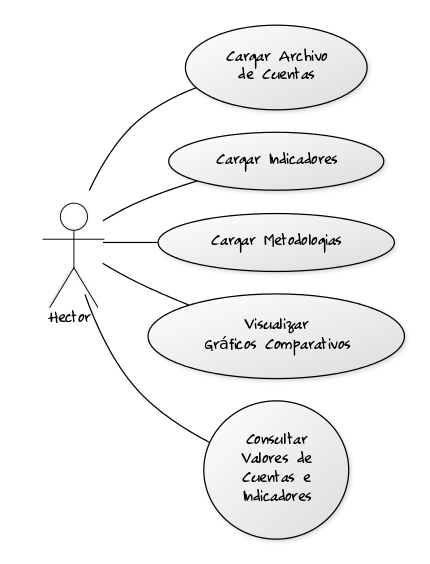
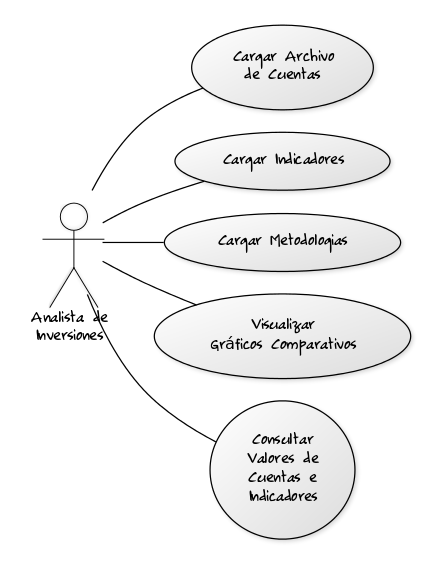
Diagrama de Casos de uso modificado

diff --git a/README.md b/README.md
@@ -17,10 +17,10 @@ PICÓ, Julián
 
 ## Diagrama Casos de Uso
 https://yuml.me/diagram/scruffy/usecase/draw
-https://yuml.me/5b25c539
+https://yuml.me/6ec69845
 
-[Hector]-(Cargar Archivo de Cuentas)
-[Hector]-(Cargar Indicadores)
-[Hector]-(Cargar Metodologias)
-[Hector]-(Visualizar Gráficos Comparativos)
-[Hector]-(Consultar Valores de Cuentas e Indicadores)
+[Analista de Inversiones]-(Cargar Archivo de Cuentas)
+[Analista de Inversiones]-(Cargar Indicadores)
+[Analista de Inversiones]-(Cargar Metodologias)
+[Analista de Inversiones]-(Visualizar Gráficos Comparativos)
+[Analista de Inversiones]-(Consultar Valores de Cuentas e Indicadores)
